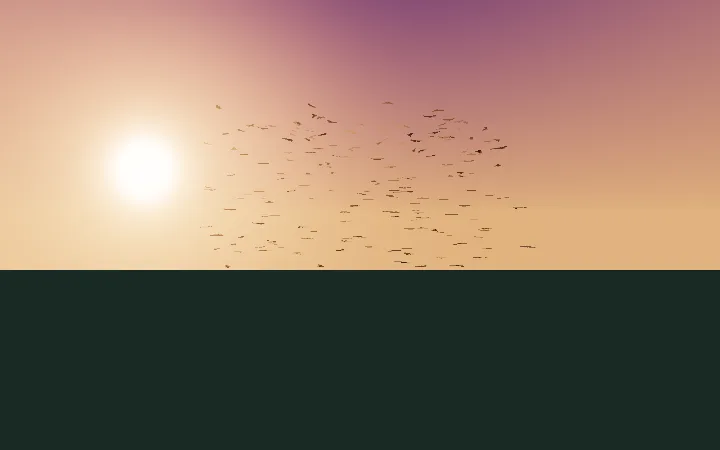
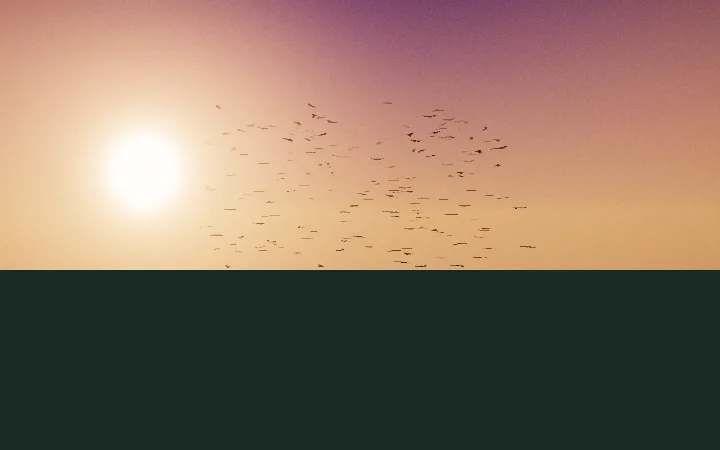
feat: grain effects, vignette abstraction

diff --git a/src/app/murmuration/grain/grain-pass.spec.ts b/src/app/murmuration/grain/grain-pass.spec.ts
@@ -1,0 +1,85 @@
+import * as THREE from 'three';
+import { GRAIN_INTENSITY, GRAIN_SEED_STEP } from './grain-calibration';
+import { GrainPass } from './grain-pass';
+
+/**
+ * a `ShaderPass` draws by calling `renderer.render(quad, camera)`, so a renderer that only records
+ * where it was pointed is enough to follow the pass without WebGL. what the grain looks like is not
+ * visible here; that needs a browser.
+ */
+class FakeRenderer {
+  public readonly draws: Array<THREE.WebGLRenderTarget | null> = [];
+  private target: THREE.WebGLRenderTarget | null = null;
+  public readonly setRenderTarget = vi.fn((target: THREE.WebGLRenderTarget | null) => {
+    this.target = target;
+  });
+  public readonly clear = vi.fn();
+  public readonly render = vi.fn(() => {
+    this.draws.push(this.target);
+  });
+}
+
+const run = (pass: GrainPass, renderer: FakeRenderer, write: THREE.WebGLRenderTarget): void => {
+  pass.render(
+    renderer as unknown as THREE.WebGLRenderer,
+    write,
+    new THREE.WebGLRenderTarget(4, 4),
+    0,
+    false
+  );
+};
+
+const seedOf = (pass: GrainPass): number => pass.uniforms['seed'].value as number;
+
+describe('GrainPass', () => {
+  it('grains at the intensity it is given', () => {
+    expect(new GrainPass(GRAIN_INTENSITY).uniforms['intensity'].value).toBe(GRAIN_INTENSITY);
+  });
+
+  it('draws its first frame at seed 0, so a still frame is always the same pattern', () => {
+    const pass = new GrainPass(GRAIN_INTENSITY);
+    const renderer = new FakeRenderer();
+    const seeds: number[] = [];
+    renderer.render.mockImplementation(() => {
+      seeds.push(seedOf(pass));
+    });
+    run(pass, renderer, new THREE.WebGLRenderTarget(4, 4));
+
+    expect(seeds).toEqual([0]);
+  });
+
+  it('reseeds after every frame, and keeps the seed inside 0..1', () => {
+    const pass = new GrainPass(GRAIN_INTENSITY);
+    const renderer = new FakeRenderer();
+    const write = new THREE.WebGLRenderTarget(4, 4);
+    const seeds = new Set<number>();
+    for (let frame = 0; frame < 100; frame++) {
+      run(pass, renderer, write);
+      seeds.add(seedOf(pass));
+    }
+
+    expect(seeds.size).toBe(100);
+    for (const seed of seeds) {
+      expect(seed).toBeGreaterThanOrEqual(0);
+      expect(seed).toBeLessThan(1);
+    }
+    expect(seedOf(pass)).toBeCloseTo((100 * GRAIN_SEED_STEP) % 1, 6);
+  });
+
+  it('draws to the screen when it is the last pass', () => {
+    const renderer = new FakeRenderer();
+    const pass = new GrainPass(GRAIN_INTENSITY);
+    pass.renderToScreen = true;
+    run(pass, renderer, new THREE.WebGLRenderTarget(4, 4));
+
+    expect(renderer.draws).toEqual([null]);
+  });
+
+  it('adds to the finished picture, so it neither tone-maps nor encodes it a second time', () => {
+    // jsdom cannot compile GLSL, so this reads the source: it runs after the output pass
+    const { fragmentShader } = new GrainPass(GRAIN_INTENSITY).material;
+
+    expect(fragmentShader).not.toContain('tonemapping_fragment');
+    expect(fragmentShader).not.toContain('colorspace_fragment');
+  });
+});

diff --git a/src/app/murmuration/murmuration.spec.ts b/src/app/murmuration/murmuration.spec.ts
@@ -8,6 +8,7 @@ import { ShaderPass } from 'three/examples/jsm/postprocessing/ShaderPass.js';
 import { UnrealBloomPass } from 'three/examples/jsm/postprocessing/UnrealBloomPass.js';
 import * as CALIBRATION from './batoid/batoid-calibration';
 import { Random } from './batoid/batoid-types';
+import { GrainPass } from './grain/grain-pass';
 import { GodRaysPass } from './light/god-rays/god-rays-pass';
 import { Murmuration } from './murmuration';
 import {
@@ -288,17 +289,26 @@ describe('Murmuration', () => {
   });
 
   describe('post-processing', () => {
-    it('draws the scene, lights it, blooms it, vignettes it, and only then tone-maps it', async () => {
-      // OutputPass applies the renderer's tone mapping and colour space; anywhere
-      // but last, the bloom would be added to a picture that is already finished.
+    it('draws the scene, lights it, blooms it, vignettes it, tone-maps it, and only then grains it', async () => {
+      // OutputPass applies the renderer's tone mapping and colour space; before it,
+      // the bloom would be added to a picture that is already finished.
       // The shafts come before the bloom, so their brightest light blooms like the rest.
       // The vignette follows the bloom, so the bloom cannot light the corners back up,
       // and precedes the tone mapping, so it darkens linear light as a lens does
       // rather than gamma-encoded values, where halving a corner leaves a fifth of its light.
+      // The grain is the one pass after it: it belongs to the print, not the light, so
+      // it must not bloom, and it is sized in the display values a viewer sees.
       await mount();
       const kinds = onlyComposer().passes.map((pass) => pass.constructor);
 
-      expect(kinds).toEqual([RenderPass, GodRaysPass, UnrealBloomPass, ShaderPass, OutputPass]);
+      expect(kinds).toEqual([
+        RenderPass,
+        GodRaysPass,
+        UnrealBloomPass,
+        ShaderPass,
+        OutputPass,
+        GrainPass,
+      ]);
     });
 
     it('vignettes by darkening toward black, not by hazing toward grey', async () => {
@@ -447,7 +457,7 @@ describe('Murmuration', () => {
 
     fixture.destroy();
 
-    expect(passes).toHaveLength(5);
+    expect(passes).toHaveLength(6);
     for (const pass of passes) {
       expect(pass).toHaveBeenCalledTimes(1);
     }

diff --git a/src/app/murmuration/grain/grain-shader.ts b/src/app/murmuration/grain/grain-shader.ts
@@ -1,0 +1,42 @@
+/**
+ * film grain over the finished frame: monochrome, heaviest in the shadows and gone in the highlights, as on a
+ * negative, so the sun's disc and the brightest sky stay clean while the bats and the dark corners crawl.
+ *
+ * it reads display values, after the output pass has tone-mapped and encoded them, so it deliberately includes
+ * neither `tonemapping_fragment` nor `colorspace_fragment`: either would finish the picture a second time.
+ * a side effect worth keeping is that it dithers the sky's gradient, which otherwise bands at eight bits.
+ *
+ * this lives inside a template literal, so a backtick in a comment ends the string.
+ */
+import { FULL_SCREEN_VERTEX } from '../light/god-rays/god-rays-shaders';
+
+/** after Dave Hoskins, "Hash without Sine": no sin(), so it does not fall apart at large coordinates */
+const GRAIN_FRAGMENT = /* glsl */ `
+  uniform sampler2D tDiffuse;
+  uniform float intensity, seed;
+  varying vec2 vUv;
+  float hash(vec2 p) {
+    vec3 p3 = fract(vec3(p.xyx) * 0.1031);
+    p3 += dot(p3, p3.yzx + 33.33);
+    return fract((p3.x + p3.y) * p3.z);
+  }
+  void main() {
+    vec4 frame = texture2D(tDiffuse, vUv);
+    vec2 cell = gl_FragCoord.xy + seed * vec2(1301.0, 977.0);
+    // two uniform draws summed are triangular, so most pixels move a little and few move the whole way
+    float noise = hash(cell) + hash(cell + 17.0) - 1.0;
+    float luma = clamp(dot(frame.rgb, vec3(0.2126, 0.7152, 0.0722)), 0.0, 1.0);
+    float response = 1.0 - luma * luma;
+    gl_FragColor = vec4(frame.rgb + noise * intensity * response, frame.a);
+  }`;
+
+export const GrainShader = {
+  name: 'GrainShader',
+  uniforms: {
+    tDiffuse: { value: null },
+    intensity: { value: 0 },
+    seed: { value: 0 },
+  },
+  vertexShader: FULL_SCREEN_VERTEX,
+  fragmentShader: GRAIN_FRAGMENT,
+};

diff --git a/src/app/murmuration/murmuration.ts b/src/app/murmuration/murmuration.ts
@@ -32,8 +32,15 @@ import {
 } from './camera/camera-calibration';
 import { advance, STOPPED_CLOCK } from './cauldron/cauldron-clock';
 import { createCauldron, poseCauldron } from './cauldron/cauldron-creation';
+import { GRAIN_INTENSITY } from './grain/grain-calibration';
+import { GrainPass } from './grain/grain-pass';
 import { GodRaysPass } from './light/god-rays/god-rays-pass';
-import { GOD_RAYS, KEY_LIGHT_POSITION } from './light/light-calibration';
+import {
+  GOD_RAYS,
+  KEY_LIGHT_POSITION,
+  VIGNETTE_OFFSET,
+  VIGNETTER_DARKNESS,
+} from './light/light-calibration';
 import { createHemisphereLight, createKeyLight, createRimLight } from './light/light-initiation';
 import {
   MURMURATION_COMPOSER,
@@ -163,11 +170,16 @@ export class Murmuration implements AfterViewInit, OnDestroy {
     composer.addPass(new RenderPass(scene, camera));
     composer.addPass(new GodRaysPass(camera, sunDirection, GOD_RAYS));
     composer.addPass(bloomPass);
-    const vignettePass = new ShaderPass(VignetteShader);
-    vignettePass.uniforms['offset'].value = 0.8;
-    vignettePass.uniforms['darkness'].value = 1.0;
-    composer.addPass(vignettePass);
+    composer.addPass(this.generateVignettePass());
     composer.addPass(new OutputPass());
+    composer.addPass(new GrainPass(GRAIN_INTENSITY));
+  }
+
+  private generateVignettePass(): ShaderPass {
+    const vignettePass = new ShaderPass(VignetteShader);
+    vignettePass.uniforms['offset'].value = VIGNETTE_OFFSET;
+    vignettePass.uniforms['darkness'].value = VIGNETTER_DARKNESS;
+    return vignettePass;
   }
 
   private destroyBats(): void {

diff --git a/src/app/murmuration/grain/grain-pass.ts b/src/app/murmuration/grain/grain-pass.ts
@@ -1,0 +1,29 @@
+/**
+ * the grain is a shader pass that reseeds itself every time it draws, because grain that holds still is not
+ * grain but dirt on the lens. it counts frames drawn rather than reading the clock, so a still frame under
+ * reduced motion is simply the first pattern, and the pattern never depends on how fast the browser paints.
+ */
+import * as THREE from 'three';
+import { ShaderPass } from 'three/examples/jsm/postprocessing/ShaderPass.js';
+import { GRAIN_SEED_STEP } from './grain-calibration';
+import { GrainShader } from './grain-shader';
+
+export class GrainPass extends ShaderPass {
+  constructor(intensity: number) {
+    super(GrainShader);
+    this.uniforms['intensity'].value = intensity;
+  }
+
+  public override render(
+    renderer: THREE.WebGLRenderer,
+    writeBuffer: THREE.WebGLRenderTarget,
+    readBuffer: THREE.WebGLRenderTarget,
+    deltaTime: number,
+    maskActive: boolean
+  ): void {
+    super.render(renderer, writeBuffer, readBuffer, deltaTime, maskActive);
+    // advanced after drawing, so the first frame is seed 0; kept in 0..1 so the shader's offset never loses precision
+    const seed = this.uniforms['seed'] as { value: number };
+    seed.value = (seed.value + GRAIN_SEED_STEP) % 1;
+  }
+}

diff --git a/src/app/murmuration/light/light-calibration.ts b/src/app/murmuration/light/light-calibration.ts
@@ -12,6 +12,10 @@ export const RIM_LIGHT_INTENSITY = 1;
 
 export const HEMISPHERE_LIGHT_INTENSITY = 0.3;
 
+export const VIGNETTER_DARKNESS = 1;
+
+export const VIGNETTE_OFFSET = 0.8;
+
 /** how the light shafts fade out as the sun leaves the frame */
 export interface ISunFade {
   /** how far past the frame's edge, in fractions of the frame, before the shafts are gone */

diff --git a/src/app/murmuration/grain/grain-calibration.ts b/src/app/murmuration/grain/grain-calibration.ts
@@ -1,0 +1,7 @@
+/** constants which govern the film grain */
+
+/** the most a pixel moves, in display values 0..1, where the grain is heaviest: the shadows */
+export const GRAIN_INTENSITY = 0.06;
+
+/** how far the seed steps each frame; the golden ratio's fraction, so no two nearby frames share a pattern */
+export const GRAIN_SEED_STEP = 0.618034;
